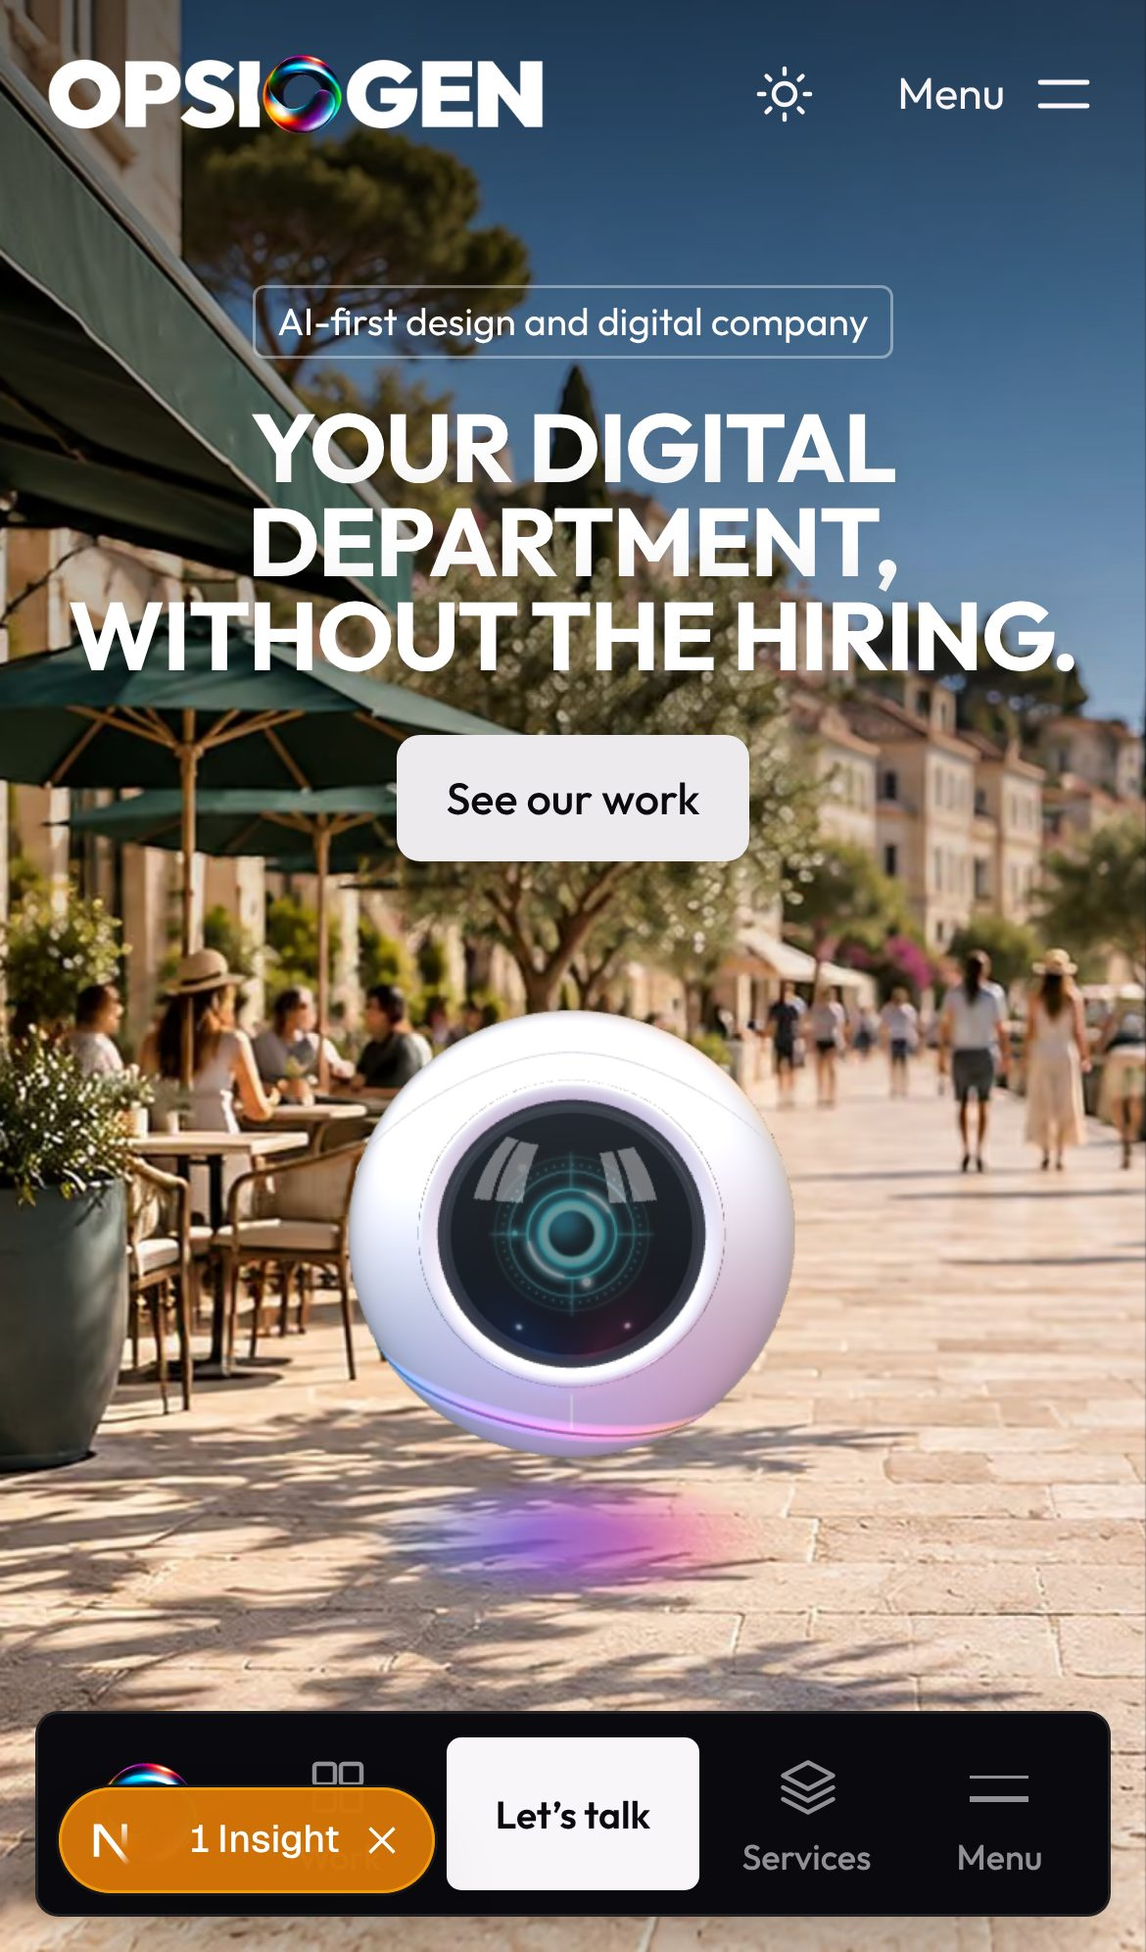
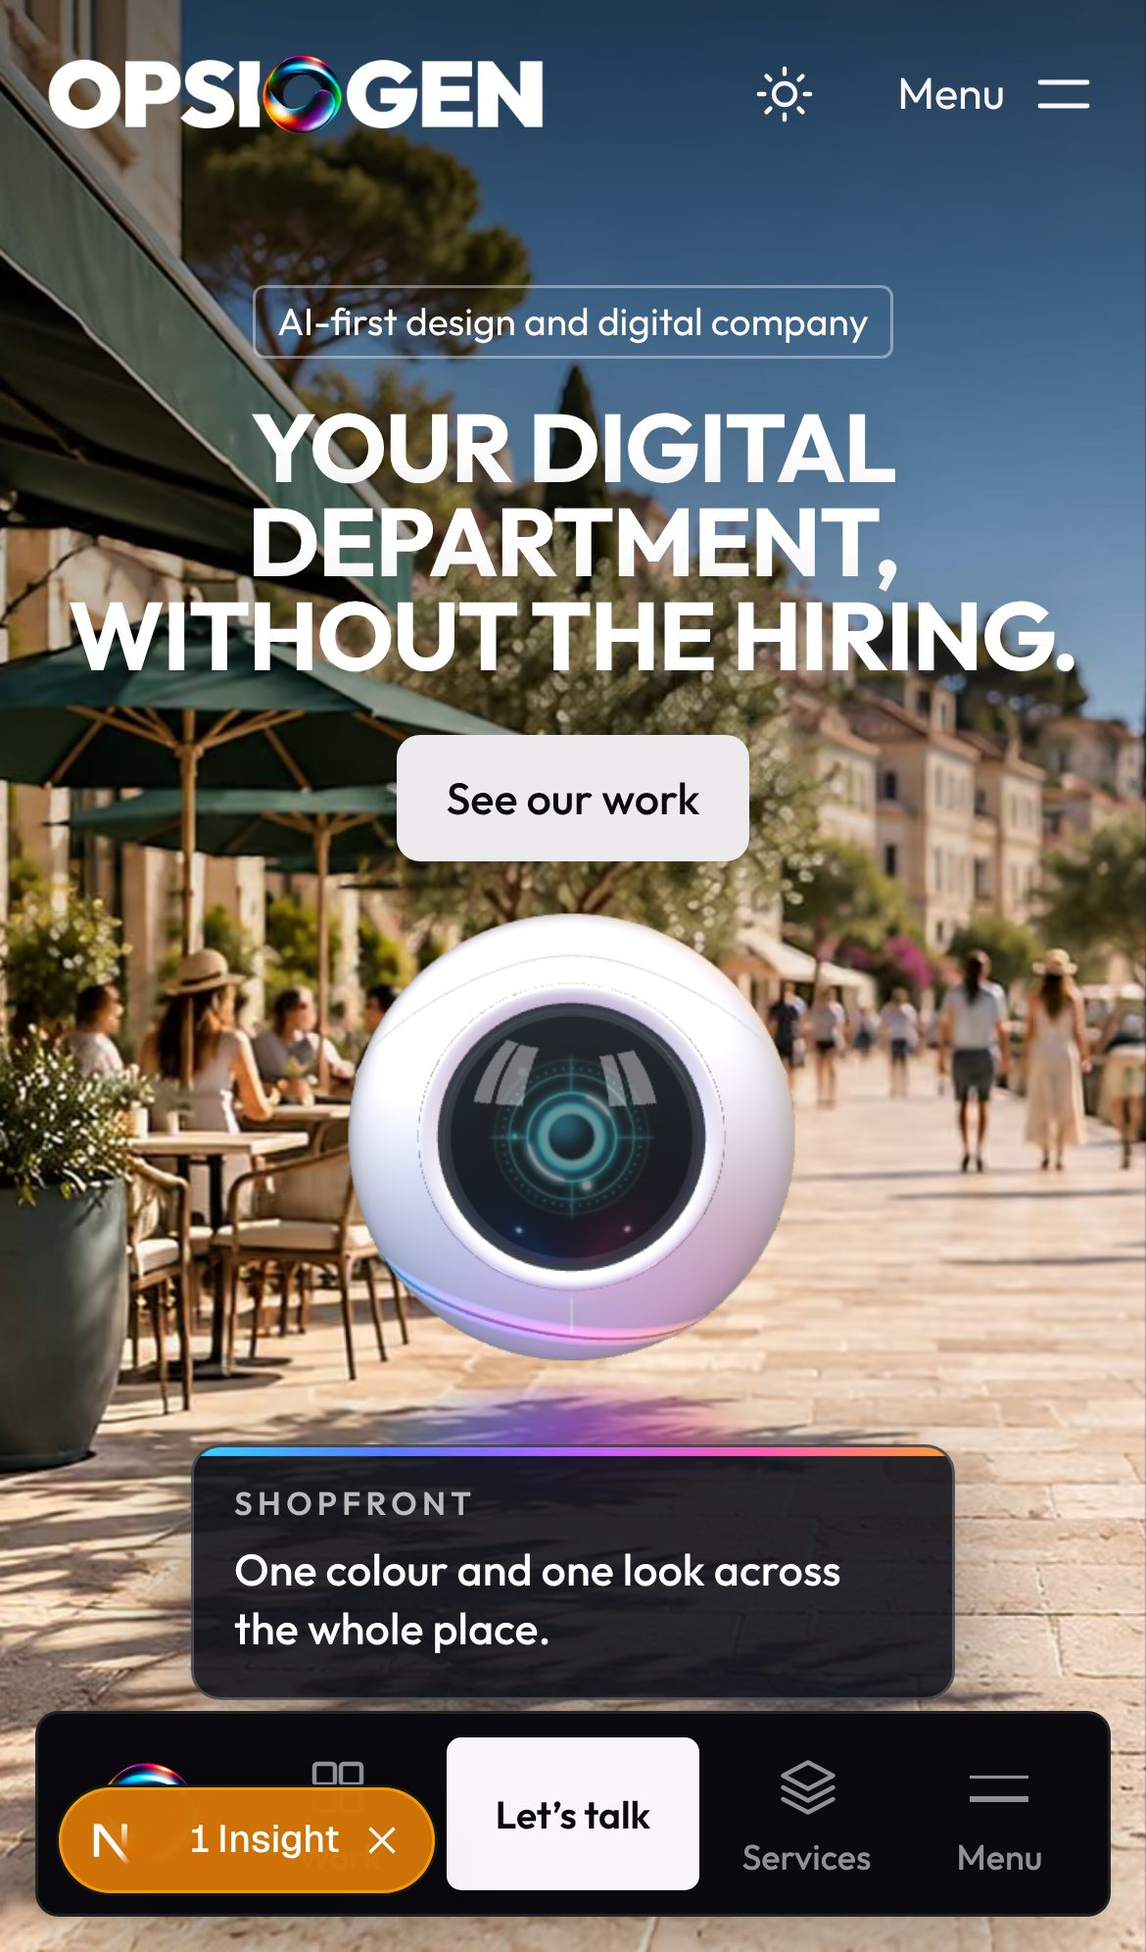
Home hero: the character looks at points in the scene and explains each in a few words
Claude-Session: https://claude.ai/code/session_011BdSE2fEeiEv9ZgoYmWAPn

Changed region(s): [[0.1231, 0.4669, 0.8923, 0.9026]]

diff --git a/src/components/sections/HeroCharacter.tsx b/src/components/sections/HeroCharacter.tsx
@@ -33,6 +33,7 @@ export function HeroCharacter() {
   const still = useRef<HTMLImageElement>(null);
   const trail = useRef<HTMLSpanElement>(null);
   const glow = useRef<HTMLSpanElement>(null);
+  const note = useRef<HTMLSpanElement>(null);
 
   useEffect(() => {
     if (!box.current || !canvas.current || !still.current || !trail.current || !glow.current) return;
@@ -59,15 +60,42 @@ export function HeroCharacter() {
       for (const r of rush) { const u = (narrow && r.dataset.narrow) || r.dataset.wide; if (u) r.style.backgroundImage = `url("${u}")`; }
     };
 
-    // The pointer
     let want = [0, 0], hello = -10, blink = 0, blinkAt = 2, over = 0;
+    // The points in the picture: when the pointer goes to one, the character looks at it and its little screen opens.
+    // Left alone for a while it shows them one by one itself; a press on the character shows the next one beside it.
+    const spots = stage ? Array.from(stage.querySelectorAll<HTMLElement>("[data-hero-spot]")) : [];
+    let hover: HTMLElement | null = null, shown: HTMLElement | null = null, turn = -1, lastMove = performance.now(), nextAuto = lastMove + 5000, hide = 0;
+    const nt = note.current;
+    const close = () => { if (shown) delete shown.dataset.on; shown = null; if (nt) nt.style.opacity = "0"; };
+    const show = (beside: boolean) => {
+      if (!spots.length) return;
+      close(); turn = (turn + 1) % spots.length; const sp = spots[turn];
+      if (!beside && sp.offsetParent) { shown = sp; sp.dataset.on = ""; }
+      else if (nt) { nt.children[1].textContent = sp.dataset.title ?? ""; nt.children[2].textContent = sp.dataset.text ?? ""; nt.style.opacity = "1"; }
+      blink = 1; window.clearTimeout(hide); hide = window.setTimeout(close, 3800);
+    };
+    const onOver = (e: PointerEvent) => {
+      const sp = (e.target as Element).closest<HTMLElement>("[data-hero-spot]");
+      if (sp && sp !== hover) { close(); hover = sp; blink = 1; }
+    };
+    const onOut = (e: PointerEvent) => { if ((e.target as Element).closest("[data-hero-spot]") === hover) hover = null; };
+    stage?.addEventListener("pointerover", onOver);
+    stage?.addEventListener("pointerout", onOut);
+    const lookAt = (sp: HTMLElement) => {
+      const a = sp.getBoundingClientRect(), b = el.getBoundingClientRect();
+      want = [clamp((a.left + a.width / 2 - b.left - b.width / 2) / (window.innerWidth * 0.3), -1.25, 1.25), clamp((a.top + a.height / 2 - b.top - b.height / 2) / (window.innerHeight * 0.34), -1, 1)];
+    };
+
+    // The pointer
     const onMove = (e: PointerEvent) => {
+      lastMove = performance.now();
+      if (hover) return;
       const r = el.getBoundingClientRect(), dx = e.clientX - (r.left + r.width / 2), dy = e.clientY - (r.top + r.height / 2);
       want = [clamp(dx / (window.innerWidth * 0.4), -1, 1), clamp(dy / (window.innerHeight * 0.4), -1, 1)];
       over = Math.hypot(dx, dy) < r.width * 0.5 ? 1 : 0;
     };
     const onLeave = () => { want = [0, 0]; over = 0; };
-    const greet = () => { hello = performance.now() / 1000; blink = 1; };
+    const greet = () => { hello = performance.now() / 1000; lastMove = performance.now(); show(true); };
     const noFocusRing = (e: PointerEvent) => e.preventDefault();
     window.addEventListener("pointermove", onMove, { passive: true });
     document.documentElement.addEventListener("pointerleave", onLeave);
@@ -157,6 +185,9 @@ export function HeroCharacter() {
         speed *= Math.pow(0.02, dt);
         const v = reduce ? 0 : clamp(speed / 90, 0, 1);                     // how fast it is flying, from the scroll
         const away = reduce ? 0 : clamp(progress * 1.6, 0, 1);               // how far it has turned to fly off
+        if (progress > 0.04) { if (shown || (nt && nt.style.opacity === "1")) close(); }
+        else if (!reduce && !hover && now - lastMove > 6000 && now > nextAuto && !document.hidden) { show(false); nextAuto = now + 6500; }
+        if (hover) lookAt(hover); else if (shown) lookAt(shown); else if (now - lastMove > 6000) want = [0, 0];
         const follow = 1 - Math.pow(1e-7, dt);
         lean = [lean[0] + (want[0] - lean[0]) * follow, lean[1] + (want[1] - lean[1]) * follow];
         const aimY = (1 - away) * lean[0] * 0.8 + away * AWAY, aimX = (1 - away) * lean[1] * 0.5 + away * 0.05;
@@ -209,6 +240,7 @@ export function HeroCharacter() {
       window.removeEventListener("pointermove", onMove); document.documentElement.removeEventListener("pointerleave", onLeave);
       window.removeEventListener("scroll", onScroll); window.removeEventListener("resize", measure);
       el.removeEventListener("pointerdown", noFocusRing); el.removeEventListener("click", greet);
+      stage?.removeEventListener("pointerover", onOver); stage?.removeEventListener("pointerout", onOut); window.clearTimeout(hide);
     };
   }, []);
 
@@ -216,12 +248,18 @@ export function HeroCharacter() {
     <button
       ref={box}
       type="button"
-      aria-label="Our character. Press to say hello."
-      className="absolute top-[calc(64%-var(--w)/2)] left-[calc(50%-var(--w)/2)] block aspect-square w-[var(--w)] cursor-pointer rounded-full outline-offset-4 will-change-transform [--w:clamp(150px,46vw,230px)] [-webkit-tap-highlight-color:transparent] md:top-[calc(53%-var(--w)/2)] md:left-[calc(62%-var(--w)/2)] md:[--w:clamp(240px,min(27vw,44svh),460px)]"
+      aria-label="Our character. Press to hear what we do here."
+      className="absolute top-[calc(59%-var(--w)/2)] left-[calc(50%-var(--w)/2)] block aspect-square w-[var(--w)] cursor-pointer rounded-full outline-offset-4 will-change-transform [--w:clamp(150px,46vw,230px)] [-webkit-tap-highlight-color:transparent] md:top-[calc(53%-var(--w)/2)] md:left-[calc(40%-var(--w)/2)] md:[--w:clamp(240px,min(27vw,44svh),460px)]"
     >
       {/* The trail starts at its back and fans out down and to the left, toward the visitor. */}
       <span ref={trail} aria-hidden="true" className="pointer-events-none absolute top-1/2 right-1/2 -z-10 h-[210%] w-[min(95vw,1300px)] opacity-0 blur-[clamp(6px,0.8vw,14px)]" style={TRAIL} />
       <span ref={glow} aria-hidden="true" className="pointer-events-none absolute top-[88%] left-[-5%] -z-10 h-[34%] w-[110%] opacity-85 blur-[clamp(6px,0.7vw,12px)]" style={GLOW} />
+      {/* Its own little screen: what a press on it shows (and, on phones, what it shows by itself). */}
+      <span ref={note} aria-live="polite" className="pointer-events-none absolute top-[108%] left-1/2 block w-[min(76vw,260px)] -translate-x-1/2 overflow-hidden rounded-[10px] border border-white/20 bg-[rgb(10_12_22/0.88)] px-3.5 pt-3 pb-3 text-left opacity-0 shadow-[0_12px_40px_rgb(0_0_0/0.45)] transition-opacity duration-200 md:top-auto md:bottom-[100%]">
+        <span aria-hidden="true" className="absolute inset-x-0 top-0 h-[3px] bg-[linear-gradient(90deg,#35d4ff,#5a7dff,#b667ff,#ff5fb4,#ff9a3c)]" />
+        <span className="block text-[11px] font-semibold tracking-[0.16em] text-white/70 uppercase" />
+        <span className="mt-1 block text-[15px] leading-snug font-medium text-white" />
+      </span>
       {/* eslint-disable-next-line @next/next/no-img-element -- a small still that only shows until the 3D model is drawn */}
       <img ref={still} src="/home/character-front.webp" alt="" width={420} height={420} className="absolute inset-0 size-full object-contain transition-opacity duration-300" />
       <canvas ref={canvas} aria-hidden="true" className="absolute inset-0 size-full opacity-0 transition-opacity duration-300" />

diff --git a/src/components/sections/Hero.tsx b/src/components/sections/Hero.tsx
@@ -10,22 +10,53 @@ const fadeIn = { opacity: "clamp(0, calc((var(--hero-p, 0) - 0.42) * 3.4), 1)", 
 
 /** The scene grows toward its far end as the visitor scrolls, as if we follow the character into it. */
 const dolly = (extra: number) => ({ transform: `scale(calc((1 + var(--hero-p, 0) * 0.6) * ${extra}))`, transformOrigin: "56% 57%" }) as React.CSSProperties;
+const spotsFade = { opacity: "clamp(0, calc(1 - var(--hero-p, 0) * 6), 1)" } as React.CSSProperties;
 const rushMask = "radial-gradient(ellipse 46% 44% at 56% 57%, transparent 30%, #000 100%)";
 
 /**
  * Home: the first stop of the journey holds still for a short scroll. Our character floats in the middle, large,
- * with the heading small beside it (above it on phones). As the visitor scrolls, the character turns its back and
+ * with the heading small beside it (above it on phones). Points on the items in the picture make it look at them
+ * and show a few words about each. As the visitor scrolls, the character turns its back and
  * flies into the scene: the picture moves toward us and streaks at the edges while it is fast, the heading fades
  * and one line about what we do takes its place. Then the page carries on.
  */
 function HeroJourney({ section, image, children }: { section: HeroSection; image: HeroImage; children?: React.ReactNode }) {
-  const words = "absolute inset-x-0 top-[calc(var(--header-h)+5svh)] px-gutter md:top-0 md:right-auto md:flex md:h-full md:w-[46vw] md:items-center";
+  const words = "absolute inset-x-0 top-[calc(var(--header-h)+5svh)] px-gutter md:top-0 md:left-auto md:flex md:h-full md:w-[47vw] md:items-center";
   return (
     <>
       <div data-hero-stage className="hero-picture hero-picture-dark on-dark relative -mt-[var(--header-h)] h-[220svh] bg-night text-white">
         <div className="sticky top-0 h-[100svh] min-h-[560px] overflow-hidden">
           <div className="absolute inset-0 will-change-transform" style={dolly(1)}>
             <Media image={image.image} phone={image.phone} sizes="100vw" priority />
+            {/* The points sit on the picture itself: this box is the wide picture's own frame, so they stay on their items at any screen size. */}
+            {image.spots && (
+              <div style={spotsFade} className="pointer-events-none absolute top-1/2 left-1/2 hidden aspect-video w-[max(100vw,177.78svh)] -translate-1/2 sm:block">
+                {image.spots.map((spot) => (
+                  <button
+                    key={spot.title}
+                    type="button"
+                    data-hero-spot
+                    data-title={spot.title}
+                    data-text={spot.text}
+                    className="group pointer-events-auto absolute size-11 -translate-1/2 cursor-pointer rounded-full outline-offset-2 hover:z-10 focus-visible:z-10 data-[on]:z-10"
+                    style={{ left: `${spot.x}%`, top: `${spot.y}%` }}
+                  >
+                    <span aria-hidden="true" className="absolute inset-[11px] rounded-full bg-white/35 motion-safe:animate-ping" />
+                    <span aria-hidden="true" className="absolute inset-[14px] rounded-full bg-white shadow-[0_0_0_3px_rgb(0_0_0/0.25),0_2px_10px_rgb(0_0_0/0.4)] transition-transform duration-200 group-hover:scale-125" />
+                    <span
+                      className={cn(
+                        "pointer-events-none absolute left-[calc(100%+2px)] block w-[clamp(200px,17vw,260px)] origin-left scale-90 overflow-hidden rounded-[10px] border border-white/20 bg-[rgb(10_12_22/0.88)] px-3.5 pt-3 pb-3 text-left opacity-0 shadow-[0_12px_40px_rgb(0_0_0/0.45)] transition duration-200 group-hover:scale-100 group-hover:opacity-100 group-focus-visible:scale-100 group-focus-visible:opacity-100 group-data-[on]:scale-100 group-data-[on]:opacity-100",
+                        spot.side === "up" ? "bottom-1/2" : spot.side === "down" ? "top-1/2" : "top-1/2 -translate-y-1/2",
+                      )}
+                    >
+                      <span aria-hidden="true" className="absolute inset-x-0 top-0 h-[3px] bg-[linear-gradient(90deg,#35d4ff,#5a7dff,#b667ff,#ff5fb4,#ff9a3c)]" />
+                      <span className="block text-[11px] font-semibold tracking-[0.16em] text-white/70 uppercase">{spot.title}</span>
+                      <span className="mt-1 block text-[15px] leading-snug font-medium text-white">{spot.text}</span>
+                    </span>
+                  </button>
+                ))}
+              </div>
+            )}
           </div>
           {/* Speed streaks: the same picture again, a little larger, at the edges only. The character code fills and shows them while it flies fast. */}
           {[1.05, 1.11].map((k) => (
@@ -40,13 +71,13 @@ function HeroJourney({ section, image, children }: { section: HeroSection; image
             />
           ))}
           <div aria-hidden="true" className="pointer-events-none absolute inset-x-0 top-0 h-[55%] bg-gradient-to-b from-black/60 via-black/25 to-transparent md:h-40 md:from-black/45 md:via-transparent" />
-          <div aria-hidden="true" className="pointer-events-none absolute inset-y-0 left-0 hidden w-[62%] bg-gradient-to-r from-black/65 via-black/30 to-transparent md:block" />
+          <div aria-hidden="true" className="pointer-events-none absolute inset-y-0 right-0 hidden w-[60%] bg-gradient-to-l from-black/65 via-black/30 to-transparent md:block" />
           <div className={words}>
             <div style={fadeOut} className="flex flex-col items-center text-center md:items-start md:text-left">
               {section.label && (
                 <p className="mb-[clamp(14px,1.4vw,22px)] rounded-[4px] border border-white/40 px-[0.6em] py-[0.15em] text-[clamp(13px,1vw,16px)]">{section.label}</p>
               )}
-              <h1 className="max-w-[19ch] text-[length:clamp(30px,8.4vw,44px)] leading-[0.98] font-bold tracking-[-0.02em] uppercase [text-shadow:0_2px_30px_rgb(0_0_0/0.3)] md:text-[length:clamp(36px,min(3.5vw,6.6svh),64px)]">
+              <h1 className="max-w-[19ch] text-[length:clamp(30px,8.4vw,44px)] leading-[0.98] font-bold tracking-[-0.02em] uppercase [text-shadow:0_2px_30px_rgb(0_0_0/0.3)] md:text-[length:clamp(34px,min(3.2vw,6.2svh),60px)]">
                 {section.heading}
               </h1>
               {section.button?.href && section.button.label && (
@@ -92,6 +123,8 @@ export type HeroImage = {
   stops?: number;
   /** Our character flies in the picture and turns to look at the visitor. */
   character?: boolean;
+  /** With the character: points in the picture it looks at and explains in a few words, when the pointer goes to them. */
+  spots?: { x: number; y: number; title: string; text: string; side?: "up" | "down" }[];
   /** With the character: the line that fades in once the heading has gone. */
   after?: string;
 };

diff --git a/src/app/(site)/page.tsx b/src/app/(site)/page.tsx
@@ -19,6 +19,14 @@ const HERO_IMAGE = {
   },
   phone: { url: "/home/hero-brand-phone.jpg", width: 1000, height: 1440 },
   character: true,
+  // Points on the brand items in the picture (left and top as a share of the wide picture).
+  spots: [
+    { x: 16.4, y: 18, title: "Logo", text: "A mark made to work on a sign, a cup and a screen." },
+    { x: 24.5, y: 15.5, title: "Shopfront", text: "One colour and one look across the whole place." },
+    { x: 27.3, y: 35, title: "Outdoor", text: "Parasols, awnings and signs that carry the brand outside." },
+    { x: 12, y: 64.6, title: "Print", text: "Menus, brochures and cards, designed and ready to print.", side: "up" as const },
+    { x: 8.6, y: 68.4, title: "Packaging", text: "The same brand on every cup and bag.", side: "down" as const },
+  ],
   after: "Brand, websites and apps, print, automation, social and video. All in one place.",
 };
 

diff --git a/LAUNCH-CHECKLIST.md b/LAUNCH-CHECKLIST.md
@@ -46,7 +46,7 @@ Tick items as they are done.
 - [ ] Character built as a real 3D model and approved by the owner (17 Nov): `design/hero/character/model` (built by `build.py`), drawn live in `design/hero/orb-proto` (`page.html` is the source, `make.py` builds `index.html`). Still to do before it goes on the site: slim the model file (about 2.4 MB now) and load it after the first screen.
 - [ ] Scroll script and scene plan for the journey, waiting for the owner's yes: `design/hero/journey-script` (the launch day of our own electric supercar, through six outdoor stops; the owner chose the car on 17 Nov, a low wedge supercar of our own design, no real maker; travel legs blur with speed and the light tail uses our colours only). Order of work is in the plan: the journey in plain colours first (no credits), then the booth stop for real.
 - [ ] The car for the journey (17 Nov): 3D model built by us in `design/hero/car/model` (`build.py`) under the working name Vaelo (name not yet checked against trademarks). The owner first asked for a Lamborghini-type wedge, found the hand-built wedge did not look real, then shared a soft concept-car picture as the idea; the model is now one smooth pearl body with a glass canopy, wheels ringed with light and a light blade in our colours (`design/hero/car/hero.jpg`). The reference is another designer's concept, used for mood only, never copied. Later the same day the owner shared an advert with a green Porsche Taycan and a serif headline and asked for that font and car: the Figma headlines now use the closest serif we are free to use (DM Serif Display); the Porsche itself cannot be our brand's car, so the owner still has to choose between our own model in that mood, an original real-looking car once image credits are back, or a licensed 3D model. Car views and the launch brand designs (brand board, build-your-car page, owner app, billboard, shelter poster, social post, show stand panels) are in Figma: https://www.figma.com/design/U7fxv5ipzHrCeX7kmJf2bv. The image credits ran out on 17 Nov (they reset on 5 Dec), so the scene pictures wait for the reset or a top-up.
-- [x] On staging now (17 Nov), until video credits arrive: the Home hero opens at stop 01 of the journey, Brand: a newly branded café on a seaside promenade (the owner asked for a brand location instead of the road; no car, so the site does not read as a car website), laid out like the owner's video reference: the character large in the middle with a pool of coloured light on the ground below it, the heading small on the left in three lines (above the character on phones), and our character drawn live (`src/components/sections/HeroCharacter.tsx`, model in `public/home/character.glb`, loaded after the page). The character follows the pointer quickly, hops and spins on a click, and on scroll the heading fades, the character turns its back and flies into the scene while the picture moves toward us and streaks at the edges, and one line about our services takes the heading's place; a rainbow fan of light pours from its back only while it moves fast. One closing call to action on Home, tour text removed. Checked locally at 1440px and 390px only. Still to do: a real phone check, PageSpeed on the new hero, a sharper scene picture (now enlarged from 1536px), and the owner's decision on whether the later journey shows the Vaelo car at all.
+- [x] On staging now (17 Nov), until video credits arrive: the Home hero opens at stop 01 of the journey, Brand: a newly branded café on a seaside promenade (the owner asked for a brand location instead of the road; no car, so the site does not read as a car website), laid out like the owner's video reference: the character large in the middle with a pool of coloured light on the ground below it, the heading small on the right in three lines (above the character on phones), and five points on the brand items in the picture (sign, awning, parasol, menu, cup): when the pointer goes to one, the character turns to look at it and a small screen says in a few words what we do there; left alone, it shows them one by one itself, and a press on the character (the way it works on phones) shows the next one beside it, and our character drawn live (`src/components/sections/HeroCharacter.tsx`, model in `public/home/character.glb`, loaded after the page). The character follows the pointer quickly, hops and spins on a click, and on scroll the heading fades, the character turns its back and flies into the scene while the picture moves toward us and streaks at the edges, and one line about our services takes the heading's place; a rainbow fan of light pours from its back only while it moves fast. One closing call to action on Home, tour text removed. Checked locally at 1440px and 390px only. Still to do: a real phone check, PageSpeed on the new hero, a sharper scene picture (now enlarged from 1536px), and the owner's decision on whether the later journey shows the Vaelo car at all.
 - Home today shows the trial picture of the glass studio (day in the light theme, night in the dark theme).
 
 ## Already done (4 November 2026)
